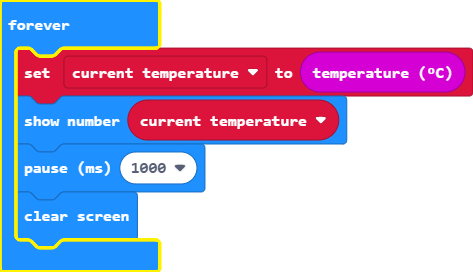
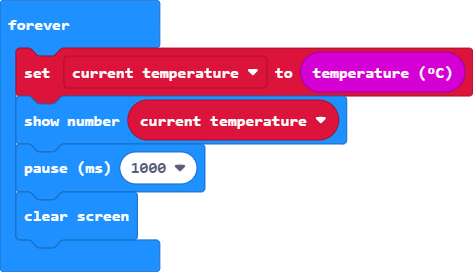
Update pxt.json, main.blocks, main.ts

Changed region(s): [[0.0, 0.0, 0.3552, 1.0]]

diff --git a/main.ts b/main.ts
@@ -1,6 +1,5 @@
 let current_temperature = 0
-basic.forever(function on_forever() {
-    
+basic.forever(function () {
     current_temperature = input.temperature()
     basic.showNumber(current_temperature)
     basic.pause(1000)
